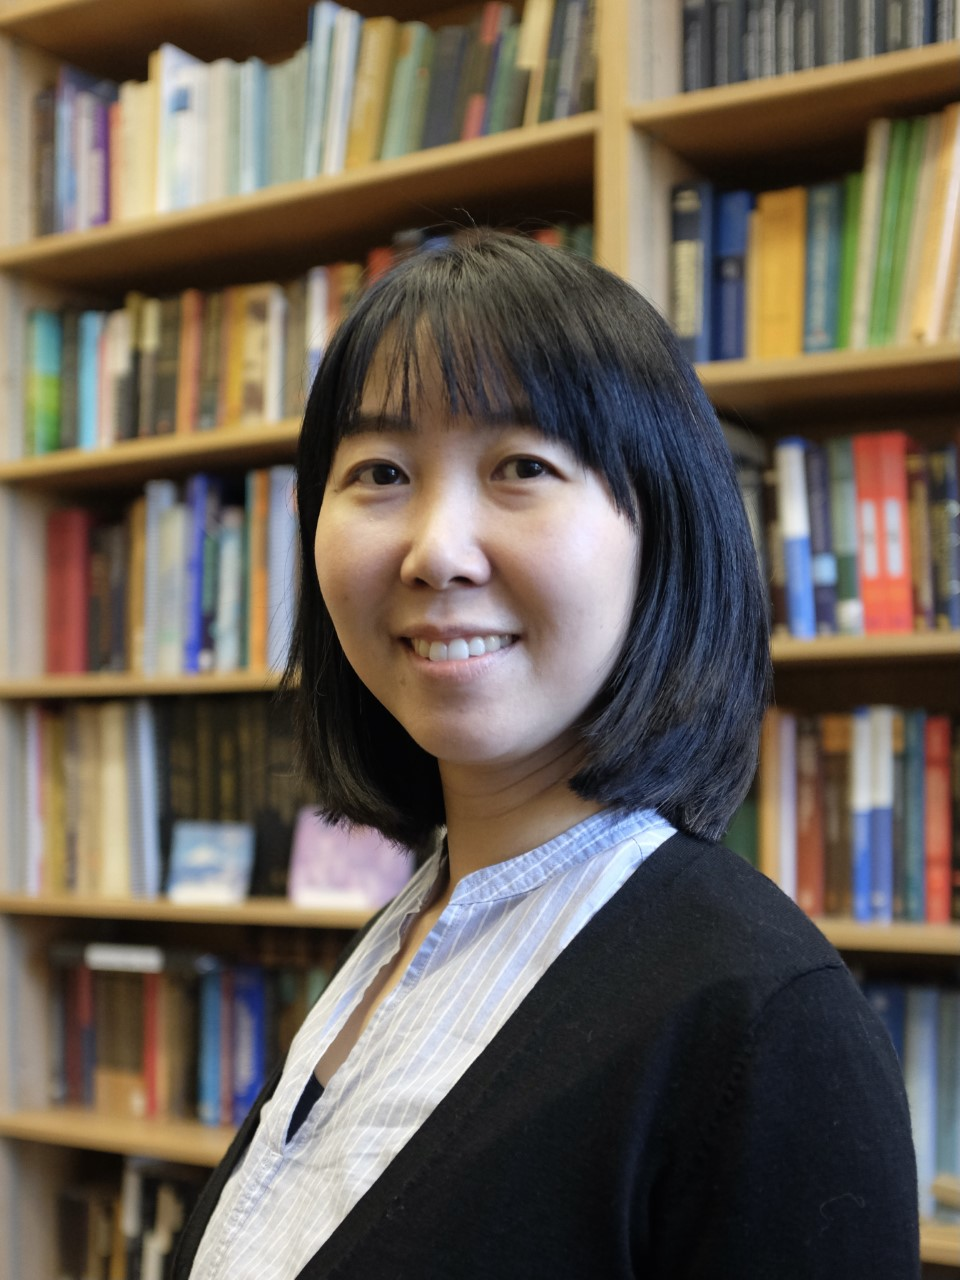
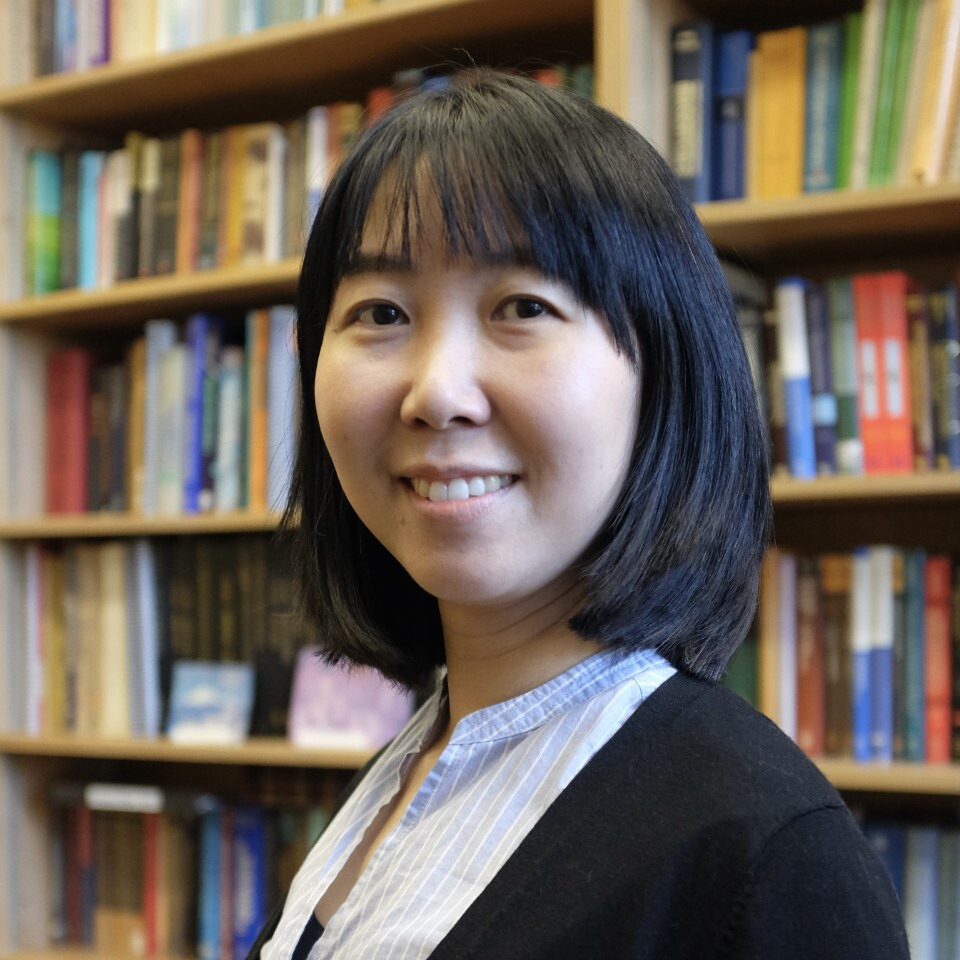
Vidhya patchwork (#25)
* Trigger Pages build

* Prof Xueyu's page

* Updated all thumbnails on the mentors page

- Resized and optimized all mentor images for better performance.
- Ensured consistent dimensions and quality across all thumbnails.
- Replaced old images with new, updated ones.

* Delete Gemfile

* Delete docs/.bundle/config

* Update docs/_mentors/ryan_richard.md

---------

diff --git a/docs/_mentors/davit_potoyan.md b/docs/_mentors/davit_potoyan.md
@@ -2,8 +2,11 @@
 title: "Davit Potoyan"
 layout: page
 author: Davit Potoyan
----
+image:
+  thumbnail: /images/davit_potoyan.jpg
+  path: /images/fragment_based_methods.png
 
+---
 # About Me
 
 Dr. Davit Potoyan is an Associate Professor in the Chemistry Department at Iowa State University. Davit's research areas encompass computational chemistry, biophysics and science driven machine learning.

diff --git a/docs/_mentors/ryan_richard.md b/docs/_mentors/ryan_richard.md
@@ -3,7 +3,7 @@ title: "Ryan M. Richard"
 layout: page
 image:
   path: /images/fragment_based_methods.png
-  thumbnail: /images/fragment_based_methods_400_200.png
+  thumbnail: /images/ryan_richard.png
   caption: "Fragment Based Method Research"
 author: Ryan Richard
 ---

diff --git a/docs/_mentors/qi_li.md b/docs/_mentors/qi_li.md
@@ -2,8 +2,10 @@
 title: "Qi Li"
 layout: page
 image:
-  path: /images/chemistry ie.png
-  caption: "Information Extraction"
+  thumbnail: /images/qi_li.jpg
+  path: /images/fragment_based_methods.png
+
+
 author: Qi Li
 ---
 

diff --git a/docs/_mentors/xueyu_song.md b/docs/_mentors/xueyu_song.md
@@ -2,7 +2,7 @@
 title: "Xueyu Song"
 layout: page
 image:
-  # path: /images/xueyu_song.png
+  path: /images/fragment_based_methods.png
   thumbnail: /images/xueyu_song.png
 author: Xueyu Song
 ---

diff --git a/docs/_mentors/theresa_windus.md b/docs/_mentors/theresa_windus.md
@@ -2,6 +2,9 @@
 title: "Theresa L. Windus"
 layout: page
 author: Theresa Windus
+image:
+  path: /images/fragment_based_methods.png
+  thumbnail: /images/theresa_windus.png
 ---
 
 # About Me

diff --git a/docs/_mentors/mengdi_huai.md b/docs/_mentors/mengdi_huai.md
@@ -2,7 +2,12 @@
 title: "Mengdi Huai"
 layout: page
 author: Mengdi Huai
+image:
+  thumbnail: /images/mengdi_huai.png
+  path: /images/fragment_based_methods.png
+
 ---
+
 
 # About Me
 

diff --git a/docs/_mentors/mark_gordon.md b/docs/_mentors/mark_gordon.md
@@ -2,6 +2,10 @@
 title: "Mark S. Gordon"
 layout: page
 author: Mark Gordon
+image:
+  thumbnail: /images/mark_gordon.jpg
+  path: /images/fragment_based_methods.png
+
 ---
 
 # About Me

diff --git a/docs/_mentors/peng_xu.md b/docs/_mentors/peng_xu.md
@@ -1,8 +1,10 @@
 ---
 title: "Peng Xu"
 layout: page
-
 author: Peng Xu
+image:
+  path: /images/fragment_based_methods.png
+  thumbnail: /images/peng_xu.jpg
 ---
 
 # About Me
